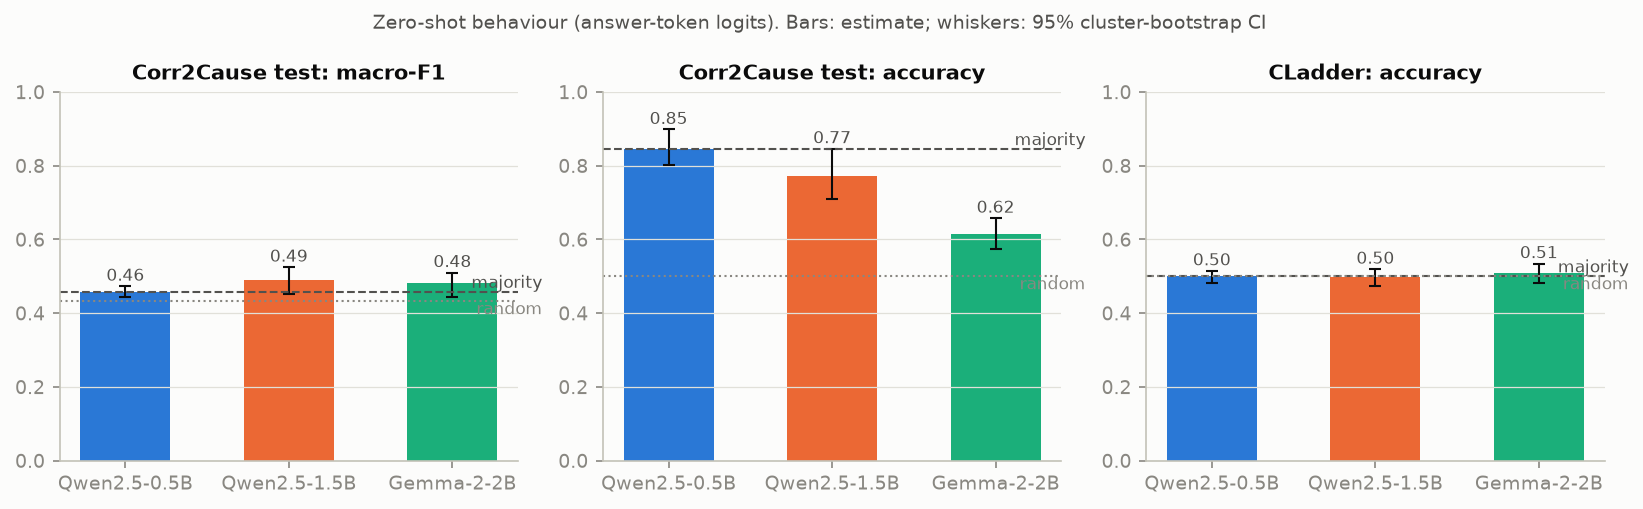
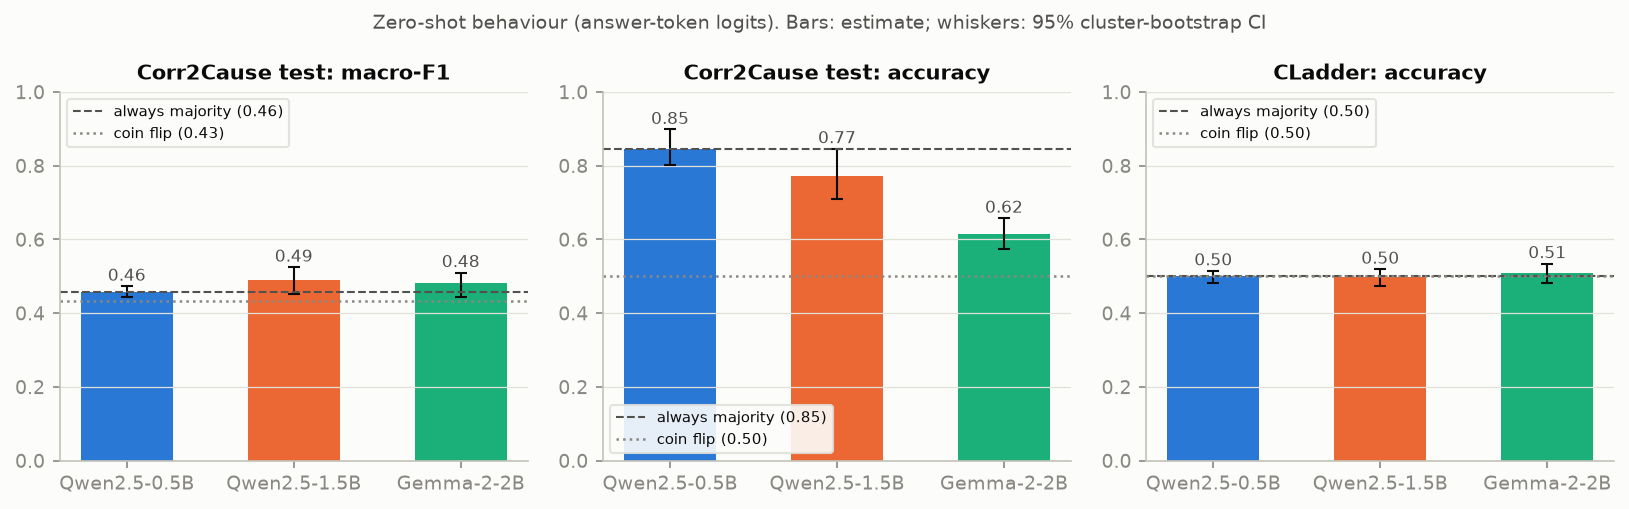
Figures and tables accept Kaggle models; behaviour figure baselines in a legend

diff --git a/scripts/06_figures.py b/scripts/06_figures.py
@@ -11,11 +11,15 @@ matplotlib.use("Agg")
 import matplotlib.pyplot as plt
 import numpy as np
 
-from causal_probe.config import FIGURES, MODELS, RESULTS
+from causal_probe.config import FIGURES, MODELS, REMOTE_MODELS, RESULTS
+
+MODELS = {**MODELS, **REMOTE_MODELS}     # models run on Kaggle appear once their results exist
 
 INK, INK2, MUTED, GRID, AXIS, SURF = "#0b0b0b", "#52514e", "#898781", "#e1e0d9", "#c3c2b7", "#fcfcfb"
-MODEL_COL = {"qwen0.5b": "#2a78d6", "qwen1.5b": "#eb6834", "gemma2b": "#1baf7a", "qwen0.5b-lora": "#6250d6"}
-MODEL_LAB = {"qwen0.5b": "Qwen2.5-0.5B", "qwen1.5b": "Qwen2.5-1.5B", "gemma2b": "Gemma-2-2B"}
+MODEL_COL = {"qwen0.5b": "#2a78d6", "qwen1.5b": "#eb6834", "gemma2b": "#1baf7a", "qwen0.5b-lora": "#6250d6",
+             "qwen3b": "#8a5a00", "qwen7b-4bit": "#7a3fb0"}
+MODEL_LAB = {"qwen0.5b": "Qwen2.5-0.5B", "qwen1.5b": "Qwen2.5-1.5B", "gemma2b": "Gemma-2-2B",
+             "qwen3b": "Qwen2.5-3B", "qwen7b-4bit": "Qwen2.5-7B (4-bit)"}
 SERIES = {  # probe targets and controls: fixed hue + line style
     "gold": ("#2a78d6", "-", "gold-label probe"),
     "model_out": ("#eb6834", "-", "model-output probe"),
@@ -44,6 +48,11 @@ def probes_file(m, tag):
     """Per-layer probe curves at the C selected (on the selection half) in the confound analysis."""
     c = load(f"confound_{m}_{tag}.json")
     return f"probes_{m}_{tag}_C{c['selected_C_gold']:g}.json" if c else None
+
+
+def tick_labs(ms):
+    """Model names for bar-group ticks; broken over two lines when four or more models share an axis."""
+    return [MODEL_LAB[m].replace("-", "\n", 1) if len(ms) > 3 else MODEL_LAB[m] for m in ms]
 
 
 def models_with(prefix):
@@ -78,11 +87,12 @@ def fig_behaviour():
             ax.errorbar(i, v["est"], yerr=[[v["est"] - v["lo"]], [v["hi"] - v["est"]]], color=INK, lw=1, capsize=3)
             ax.text(i, v["hi"] + 0.015, f"{v['est']:.2f}", ha="center", color=INK2, fontsize=8)
         base = r["baselines"]
-        ax.axhline(base["majority"][metric], color=INK2, ls="--", lw=1)
-        ax.text(len(ms) - 0.45, base["majority"][metric], " majority", va="bottom", ha="right", color=INK2, fontsize=8)
-        ax.axhline(base["random"][metric], color=MUTED, ls=":", lw=1)
-        ax.text(len(ms) - 0.45, base["random"][metric], " random", va="top", ha="right", color=MUTED, fontsize=8)
-        ax.set_xticks(range(len(ms)), [MODEL_LAB[m] for m in ms])
+        # baseline lines are named in a legend above the bars, where they cannot collide with value labels
+        ax.axhline(base["majority"][metric], color=INK2, ls="--", lw=1, label=f"always majority ({base['majority'][metric]:.2f})")
+        ax.axhline(base["random"][metric], color=MUTED, ls=":", lw=1.2, label=f"coin flip ({base['random'][metric]:.2f})")
+        ax.legend(loc="upper left" if metric == "macro_f1" or tag == "cladder" else "lower left", fontsize=7, frameon=True,
+                  facecolor=SURF, edgecolor=GRID, framealpha=0.9)
+        ax.set_xticks(range(len(ms)), tick_labs(ms))
         ax.set_ylim(0, 1); ax.set_title(title); ax.grid(axis="x", visible=False)
     fig.suptitle("Zero-shot behaviour (answer-token logits). Bars: estimate; whiskers: 95% cluster-bootstrap CI", fontsize=9, color=INK2)
     fig.tight_layout()
@@ -248,7 +258,7 @@ def fig_confound():
                     ax.errorbar(x, v["est"], yerr=[[v["est"] - v["lo"]], [v["hi"] - v["est"]]], color=INK, lw=0.8, capsize=2)
                 ax.text(i, 0.965, f"n={b['n']}", ha="center", color=INK2, fontsize=7)
             ax.axhline(0.5, color=INK2, ls="--", lw=1)
-            ax.set_xticks(range(len(ms)), [MODEL_LAB[m] for m in ms]); ax.set_ylim(0, 1)
+            ax.set_xticks(range(len(ms)), tick_labs(ms)); ax.set_ylim(0, 1)
             ax.set_xlim(-0.5, len(ms) - 0.5)
             ax.set_title(title, fontsize=9); ax.grid(axis="x", visible=False)
         h, l = axes[0].get_legend_handles_labels()
@@ -381,8 +391,9 @@ def fig_cross_model():
     axes[2].set_ylim(0, 1.05)
     for ax in axes:
         ax.set_xscale("log"); ax.set_xlabel("parameters (billions)")
-        ax.set_xticks([0.5, 1.5, 2.6], ["0.5", "1.5", "2.6"])
-        ax.xaxis.set_minor_formatter(plt.NullFormatter()); ax.set_xlim(0.42, 3.1)
+        xs = sorted({round(v["params_billion"], 1) for v in r["models"].values()})
+        ax.set_xticks(xs, [f"{x:g}" for x in xs])
+        ax.xaxis.set_minor_formatter(plt.NullFormatter()); ax.set_xlim(0.42, max(xs) * 1.2)
     from matplotlib.lines import Line2D
     axes[0].legend(handles=[Line2D([], [], marker="o", color=INK2, ls="", label="Corr2Cause pool"),
                             Line2D([], [], marker="s", color=INK2, ls="", mfc=SURF, label="CLadder")], fontsize=8)

diff --git a/scripts/12_tables.py b/scripts/12_tables.py
@@ -9,7 +9,10 @@ from causal_probe.config import ALL_MODELS, MODELS, REMOTE_MODELS, RESULTS, ROOT
 
 MODELS = {**MODELS, **REMOTE_MODELS}     # remote (Kaggle) models appear in a table once their results exist
 
-OUT = ROOT / "report" / "tables"
+import os
+from pathlib import Path
+
+OUT = Path(os.environ.get("CAUSAL_PROBE_TABLES", ROOT / "report" / "tables"))
 LAB = {"qwen0.5b": "Qwen2.5-0.5B", "qwen1.5b": "Qwen2.5-1.5B", "gemma2b": "Gemma-2-2B", "qwen0.5b-lora": "Qwen2.5-0.5B + LoRA",
        "qwen3b": "Qwen2.5-3B", "qwen7b-4bit": "Qwen2.5-7B (4-bit)"}
 DS = {"c2c_test": "Corr2Cause test", "c2c_probe": "Corr2Cause pool", "cladder": "CLadder",

diff --git a/scripts/09_cross_model.py b/scripts/09_cross_model.py
@@ -8,9 +8,11 @@ import json
 import numpy as np
 
 from causal_probe import cache, data, stats
-from causal_probe.config import MODELS, RESULTS, SEED
+from causal_probe.config import MODELS, REMOTE_MODELS, RESULTS, SEED
 
-PARAMS_B = {"qwen0.5b": 0.494, "qwen1.5b": 1.54, "gemma2b": 2.61}   # parameter counts (billions), from model cards
+MODELS = {**MODELS, **REMOTE_MODELS}
+
+PARAMS_B = {"qwen0.5b": 0.494, "qwen1.5b": 1.54, "gemma2b": 2.61, "qwen3b": 3.09, "qwen7b-4bit": 7.62}   # parameter counts (billions), from model cards
 
 
 def main():

diff --git a/src/causal_probe/config.py b/src/causal_probe/config.py
@@ -10,7 +10,7 @@ DATA_RAW = ROOT / "data" / "raw"
 # that a test never overwrites the real cache or the committed results.
 CACHE = Path(os.environ.get("CAUSAL_PROBE_CACHE", ROOT / "cache"))
 RESULTS = Path(os.environ.get("CAUSAL_PROBE_RESULTS", ROOT / "results"))
-FIGURES = ROOT / "figures"
+FIGURES = Path(os.environ.get("CAUSAL_PROBE_FIGURES", ROOT / "figures"))
 
 SEED = 0
 PROBE_SEEDS = (0, 1, 2)
